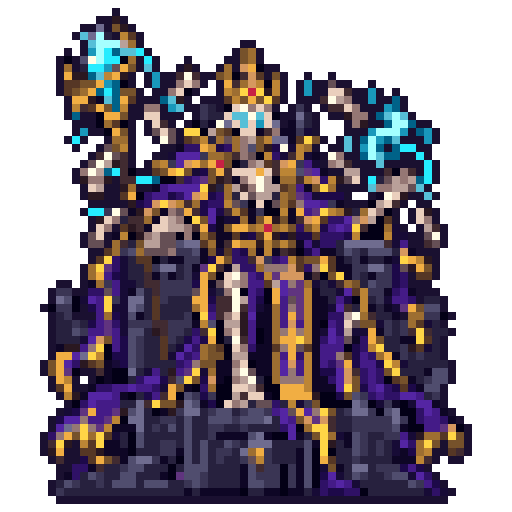
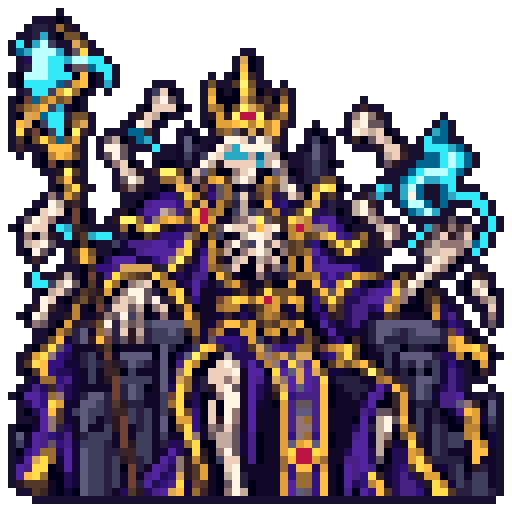
보스 그림: 머리·상체 중심으로 잘라 특징만 크게 (v0.34.1)
- make_boss_sprites.py: 보스별 정사각형 자르기(CROP), 떠 있는 부스러기 지우기(ISLAND)
- 날개 끝·받침대·흩어진 장식 대신 얼굴·상체가 보스 칸을 채운다

Claude-Session: https://claude.ai/code/session_014gChBYzVF9cfUwsBghVSK5

diff --git a/dice-heroes/config.js b/dice-heroes/config.js
@@ -3,6 +3,6 @@ export const GAME = {
   name: '요트 히어로즈',
   en: 'YACHT HEROES',
   studio: 'HAHAHOHO COMPANY',
-  version: '0.34.0',
+  version: '0.34.1',
   year: 2026,
 };

diff --git a/dice-heroes/tools/make_boss_sprites.py b/dice-heroes/tools/make_boss_sprites.py
@@ -2,6 +2,7 @@
 
 원본은 생성 그림이라 너무 촘촘해서, 보스 칸(68~96px)에서는 잔점이 뭉개져 화질이 나빠 보인다.
 도트 한 칸을 굵게(GRID칸 격자) 만든다:
+  0) 머리·상체 중심 정사각형으로 자르고(CROP), 떠 있는 작은 부스러기를 지운다(ISLAND)
   1) 목표의 4배 크기로 줄여 경계 보존 평탄화로 미세 질감을 지운다
   2) 목표 크기로 평균 축소 → 살짝 샤픈
   3) Lab k-평균으로 COLORS색 (채도 축에 무게를 줘야 금빛 사슬·눈빛이 살아남는다)
@@ -26,6 +27,13 @@ CHROMA = 1.8                  # 색 묶을 때 채도(a·b) 가중치
 SMOOTH = 2                    # 평탄화 횟수
 SHARPEN = 0.6
 OUTLINE = (26, 16, 48)        # #1A1030 · 다른 도트와 같은 외곽선 색
+# 특징 부위만 크게: 원본 그림(투명 여백 뺀 상자)에서 정사각형으로 잘라 쓴다 (가운데 x, 위 y, 한 변 — 긴 변 대비)
+# 날개 끝·받침대·흩어진 장식은 68px 칸에서 잔점만 되므로 머리·상체 중심으로 자른다
+CROP = {
+    'dragon': (.5, 0, .74), 'orc': (.47, 0, .76), 'lich': (.5, 0, .74), 'hydra': (.5, 0, .64),
+    'cyclops': (.5, 0, .76), 'overlord': (.5, 0, .74), 'demon': (.5, .02, .54), 'archdemon': (.5, .02, .52),
+}
+ISLAND = 0.004                # 이보다 작은(전체 면적 대비) 떠 있는 조각은 지운다 (불씨·뼈 부스러기)
 IDS = ['dragon', 'orc', 'lich', 'hydra', 'cyclops', 'overlord', 'demon', 'archdemon']
 
 
@@ -42,12 +50,22 @@ def pixelate(name):
     box = Image.fromarray(a[..., 3]).point(lambda v: 255 if v > 24 else 0).getbbox()
     a = a[box[1]:box[3], box[0]:box[2]]
     h, w = a.shape[:2]
+    cx, top, side = CROP.get(name, (.5, 0, 1))
+    side = round(max(w, h) * side)
+    x0 = min(max(0, round(w * cx - side / 2)), max(0, w - side))
+    a = a[round(h * top):round(h * top) + side, x0:x0 + side]
+    h, w = a.shape[:2]
     k = FIT / max(w, h)
     nw, nh = max(1, round(w * k)), max(1, round(h * k))
     pm = a.astype(np.float32) / 255
     pm[..., :3] *= pm[..., 3:]
     # 1) 4배 크기에서 미세 질감 지우기
     rgb, al = area(pm, (nw * 4, nh * 4))
+    on = (al > 0.5).astype(np.uint8)
+    n, cc, st, _ = cv2.connectedComponentsWithStats(on, connectivity=8)
+    for i in range(1, n):
+        if st[i, 4] < ISLAND * on.size:
+            al[cc == i] = 0
     rgb8 = (rgb * 255).astype(np.uint8)
     for _ in range(SMOOTH):
         rgb8 = cv2.bilateralFilter(rgb8, 7, 40, 5)

diff --git a/dice-heroes/README.md b/dice-heroes/README.md
@@ -267,7 +267,7 @@ export const BGM_FILES = { title: 'assets/bgm/title.ogg', adventure: 'assets/bgm
 | `skins.js` | 꾸미기: 주사위 스킨 9종(기본·오픈하츠·황금·미니멀·우주·블랙·투명·하트·키캡, 스킨별 굴림 소리) · 트레이 스킨 7종 (트레이는 캔버스로 그림, 유료 해금 자리 `isUnlocked`). 기본을 뺀 8종 주사위 면은 디자인 시트 한 장(`tools/dice-src/sheet-v2.webp`)에서 `tools/make_dice_from_sheet.py` 로 오려 `assets/dice/<스킨>/1~6.webp`(512px) 로 만든다 (v0.30) — 시트 한 칸이 약 110px 라 먼저 `tools/upscale_dice_sheet.py`(Real-ESRGAN x4)로 4배 키운 칸(`tools/dice-src/dice-hires/`)에서 오린다. 키캡은 시트의 사다리꼴 모양이 아니라 눈이 있는 윗면만 입힌다. 트레이는 기본(초록 펠트)을 빼고 7종(클래식·왕실·심해·마왕성·벚꽃·용암·은하)을 트레이 시트(`tools/dice-src/tray-sheet-v2.webp`)에서 `tools/make_trays_from_sheet.py` 로 오려 `assets/trays/<스킨>/{floor,glow,box,thumb}.webp` 로 쓴다 — 시트 한 칸이 약 200px 라 먼저 `tools/upscale_tray_sheet.py`(Real-ESRGAN x4, CPU)로 4배 키운 칸(`tools/dice-src/tray-hires/`)을 쓴다. 바닥은 10:6.4 라 문양을 지운 바탕을 가로로 늘리고 가운데 문양만 원래 비율로 다시 얹는다 (1200×768, 함 바닥 1536×264). 테두리·장식 색은 `skins.js` `IMAGE_TRAY`, 예전 코드 그림은 `TRAY_STYLE` 에 그대로 있다. 예전 코드 그림(하트·키캡·투명·미니멀)은 `drawDieFace` 에 남아 있어 `DIE_MAT` 의 `image: true` 만 지우면 되돌아간다. 바꾸기 직전 상태(v0.29.2)는 브랜치 `backup/dice-heroes-dice-v1` |
 | `dice3d.js` | 3D 주사위 트레이 (물리 궤적 녹화 → 결과 면 매핑 → 재생). 고정한 주사위는 굴릴 때 트레이 아래 나무 주사위 함으로 옮겨 가 굴리는 길을 막지 않는다 |
 | `audio.js` | 칩튠 시퀀서 · 효과음 · 음량 설정 (효과음이 묻히지 않게 채널 비율 + 배경음악 더킹). 협동모드 보스별 곡 `boss_dragon` · `boss_orc` · `boss_lich`, 음원 파일은 `BGM_FILES` → `assets/bgm/` |
-| `pixel.js` · `scenes.js` | 스프라이트(그림 파일 · 예전 도트)와 타이틀 장면. 보스 8종 그림(v0.34)은 원본(`tools/boss-src/<id>.webp`, 무손실)을 `tools/make_boss_sprites.py` 로 64칸 도트(8배 확대 512px, 32색)로 줄여 `assets/boss/<id>.png` 로 쓴다. 분노는 그림을 바꾸지 않고 연출로만 보여 준다. 바꾸기 직전 그림은 브랜치 `backup/dice-heroes-boss-v1` |
+| `pixel.js` · `scenes.js` | 스프라이트(그림 파일 · 예전 도트)와 타이틀 장면. 보스 8종 그림(v0.34)은 원본(`tools/boss-src/<id>.webp`, 무손실)을 `tools/make_boss_sprites.py` 로 머리·상체 중심 정사각형으로 잘라(`CROP`, 날개 끝·받침대·떠 있는 부스러기는 68px 칸에서 잔점만 되므로) 64칸 도트(8배 확대 512px, 32색)로 줄여 `assets/boss/<id>.png` 로 쓴다. 분노는 그림을 바꾸지 않고 연출로만 보여 준다. 바꾸기 직전 그림은 브랜치 `backup/dice-heroes-boss-v1` |
 | `tutorial.js` | 튜토리얼 대본(단계·강조 대상·허용 동작·완료 조건) |
 | `style.css` | 도트 프레임 · 픽셀 서체 스타일 |
 | `manifest.webmanifest` · `sw.js` · `icons/` | 설치형 앱(PWA/TWA). 앱 아이콘은 `python3 tools/make_icons.py build 1 <Galmuri11-Bold.ttf>` 로 만든다 (후보 6종 · `sheet` 로 모아 보기, 지금은 1번 「영웅의 일격」) |
